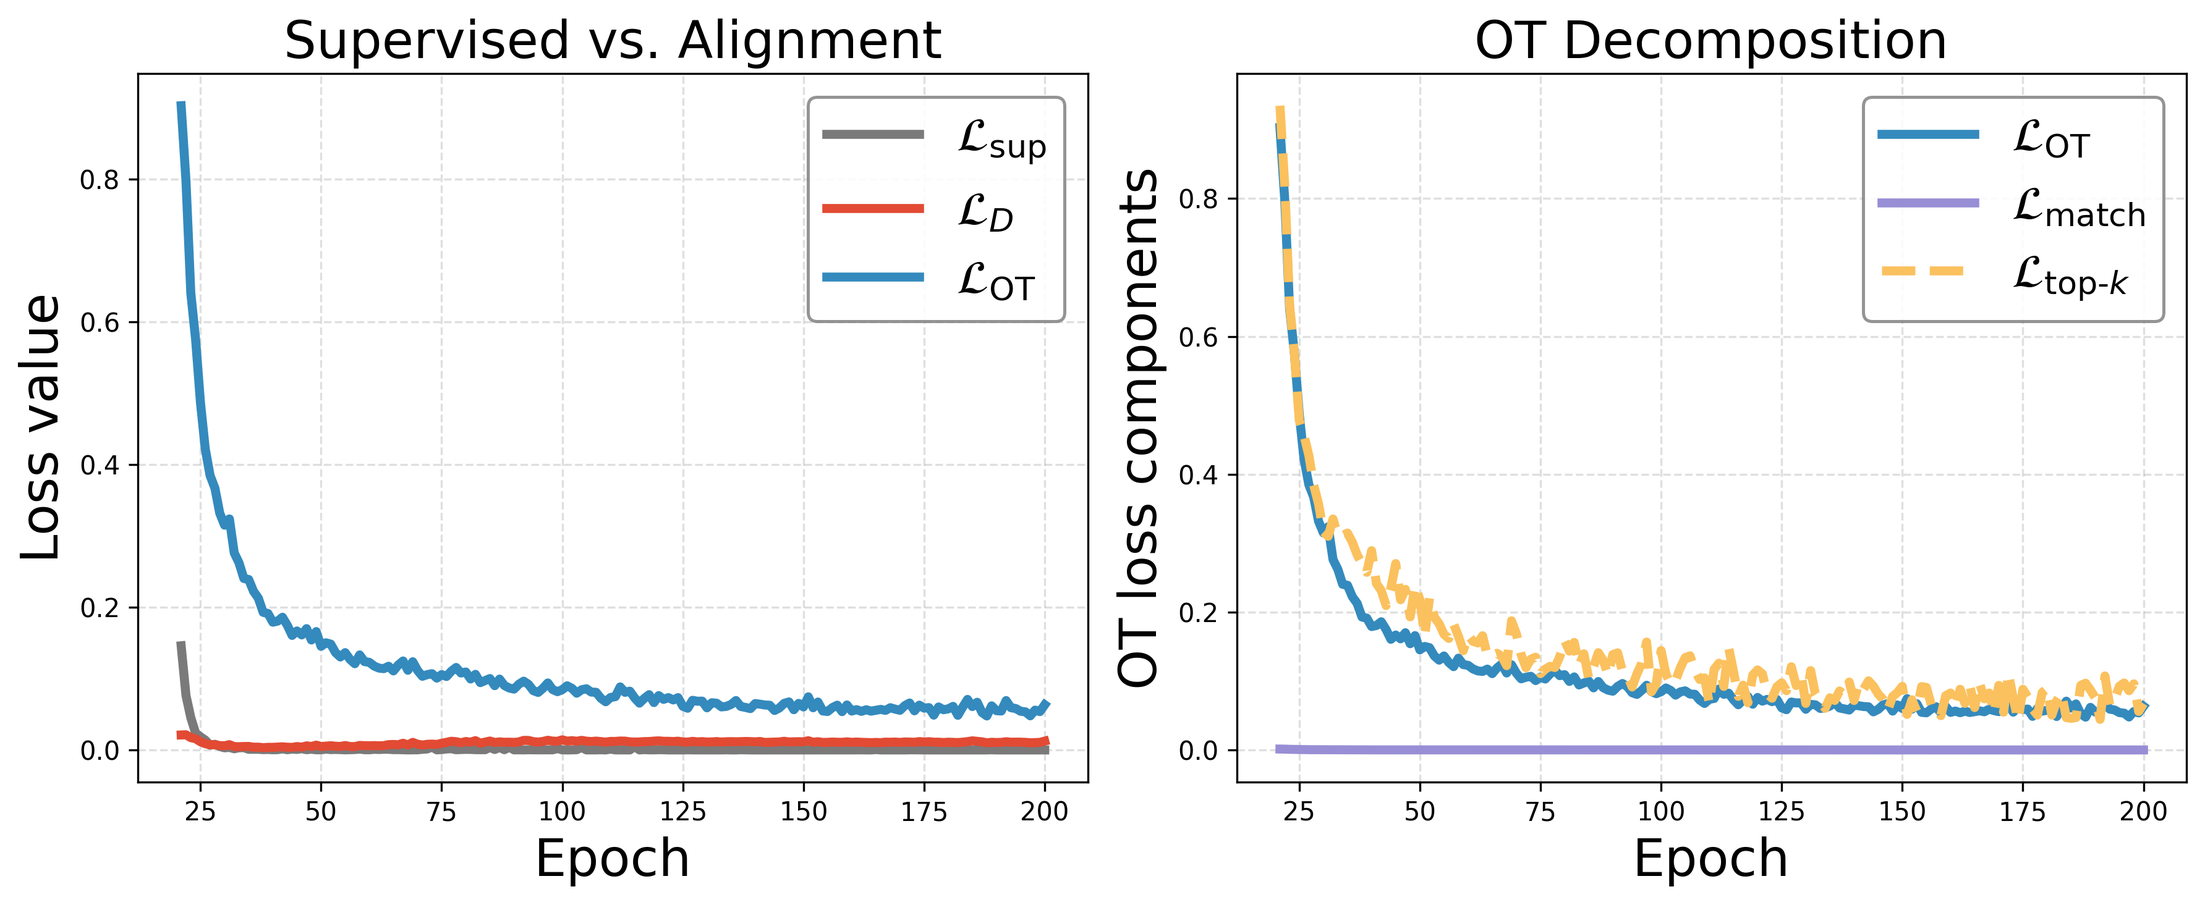
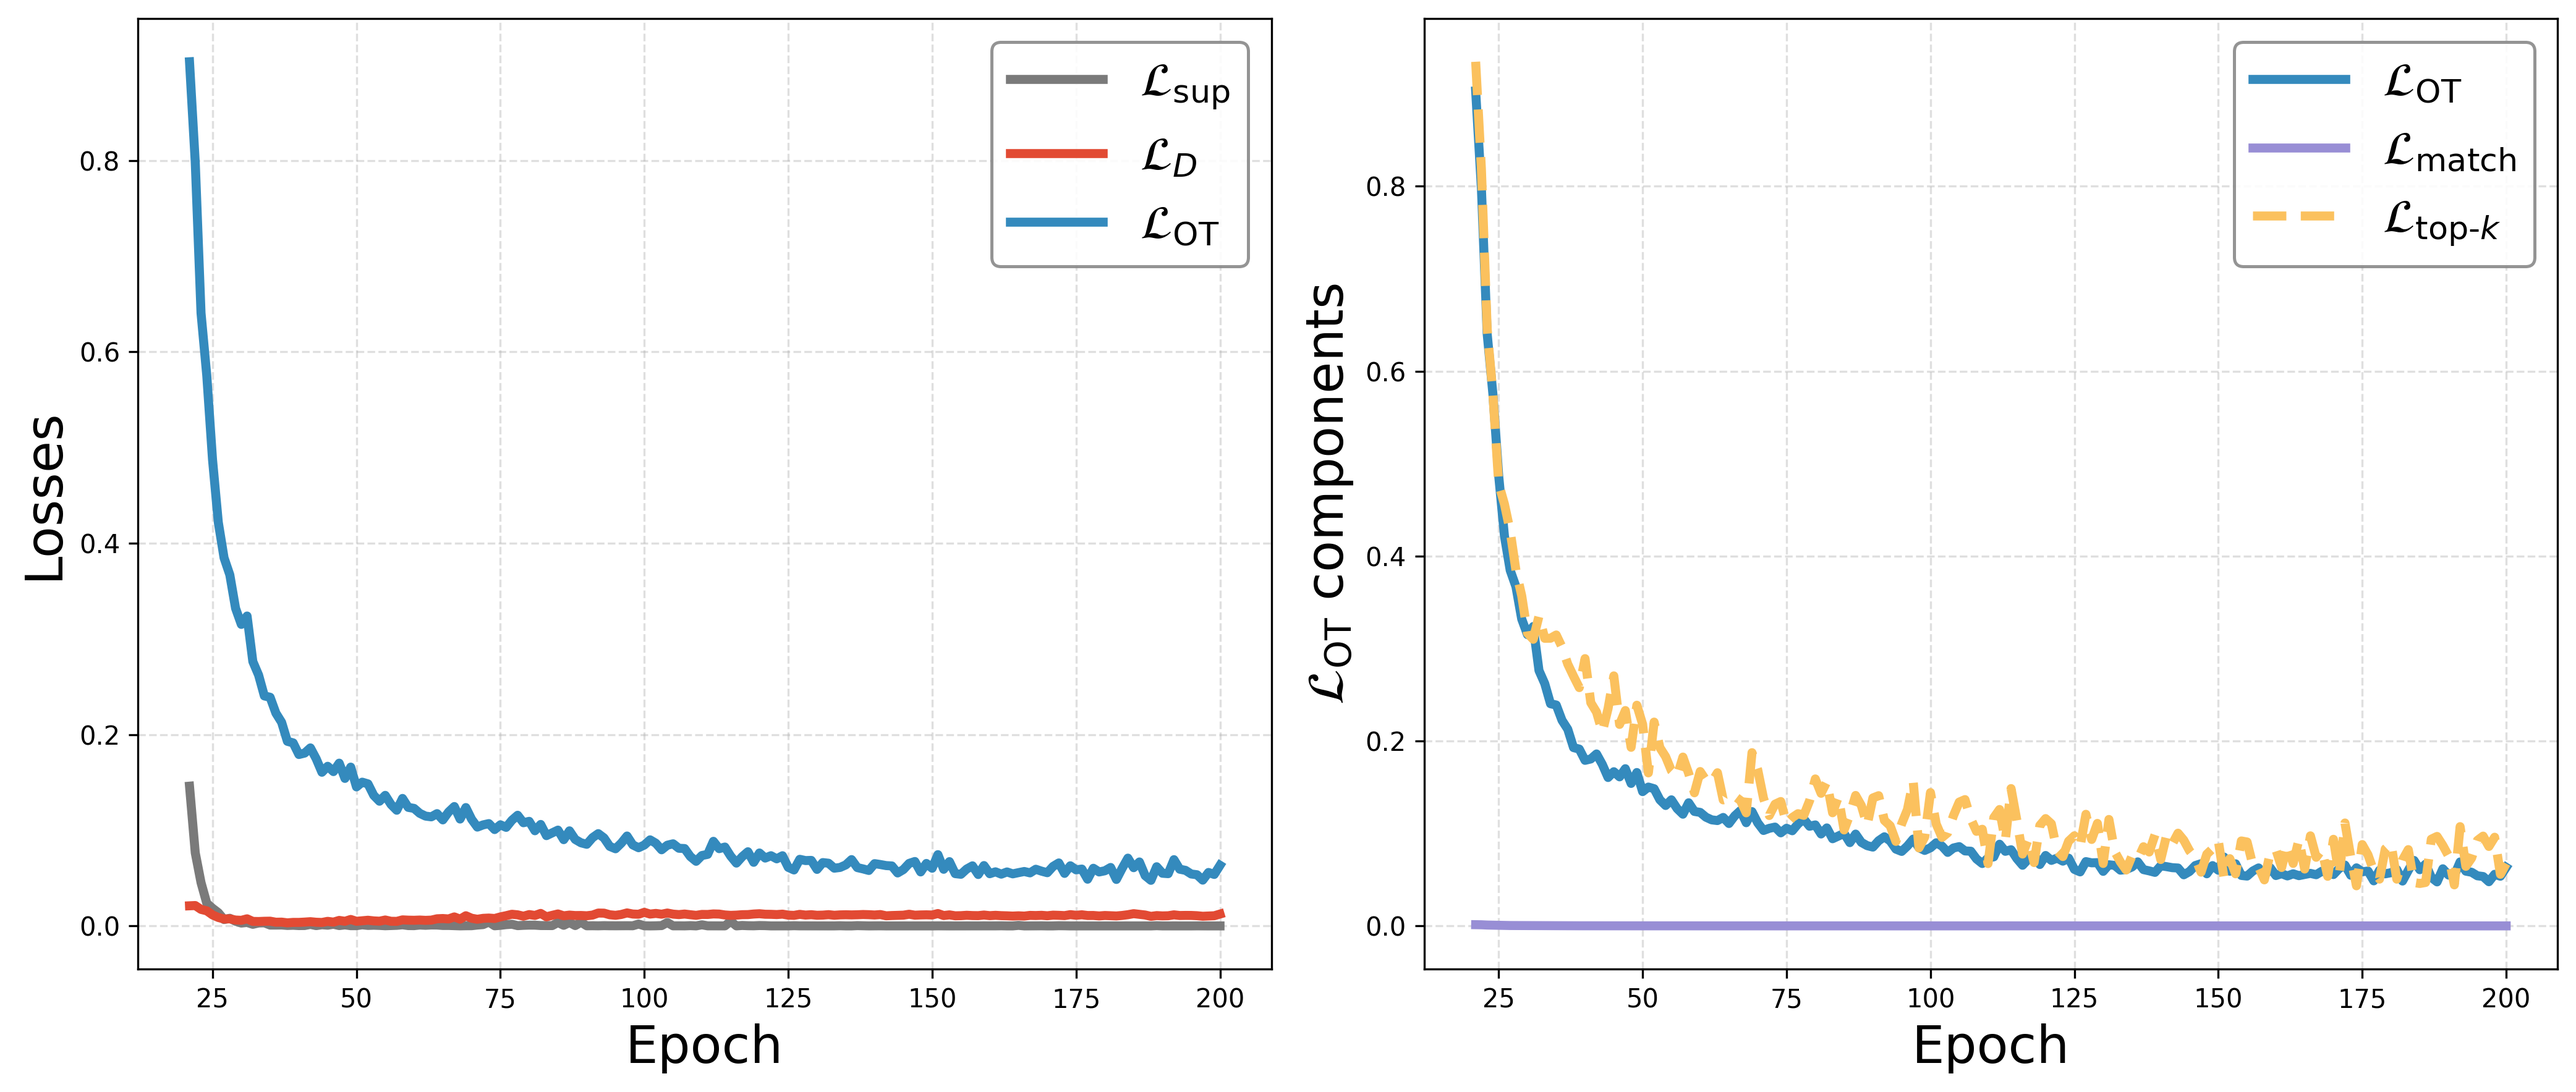
tiny update in figure size

Changed region(s): [[0.0, 0.0, 0.9958, 0.9829]]

diff --git a/scripts/make_paper_figures.py b/scripts/make_paper_figures.py
@@ -1068,7 +1068,7 @@ def _plot_figure6(experiments: dict, output_path: str):
     ot_topk = df["ot_topk_loss"].to_numpy() if "ot_topk_loss" in df.columns else None
     ot_match = df["ot_match_loss"].to_numpy() if "ot_match_loss" in df.columns else None
 
-    fig, axes = plt.subplots(1, 2, figsize=(12, 5))
+    fig, axes = plt.subplots(1, 2, figsize=(14, 6))
     ax_left, ax_right = axes
 
     if ce is not None:
@@ -1100,7 +1100,7 @@ def _plot_figure6(experiments: dict, output_path: str):
         )
 
     ax_left.set_xlabel("Epoch", fontsize=FONT_SIZE_LABEL)
-    ax_left.set_ylabel("Loss value", fontsize=FONT_SIZE_LABEL)
+    ax_left.set_ylabel("Losses", fontsize=FONT_SIZE_LABEL)
     ax_left.yaxis.label.set_fontweight("medium")
     ax_left.grid(True, linestyle="--", alpha=ALPHA_GRID)
     leg_left = ax_left.legend(
@@ -1110,7 +1110,7 @@ def _plot_figure6(experiments: dict, output_path: str):
         leg_left.get_frame().set_edgecolor(LEGEND_FRAME_EDGE)
         leg_left.get_frame().set_linewidth(LEGEND_FRAME_WIDTH)
         leg_left.get_frame().set_alpha(LEGEND_FRAME_ALPHA)
-    ax_left.set_title(f"Supervised vs. Alignment", fontsize=FONT_SIZE_TITLE)
+    # ax_left.set_title(f"Supervised vs. Alignment", fontsize=FONT_SIZE_TITLE)
 
     if ot_total is not None:
         ax_right.plot(
@@ -1141,7 +1141,7 @@ def _plot_figure6(experiments: dict, output_path: str):
         )
 
     ax_right.set_xlabel("Epoch", fontsize=FONT_SIZE_LABEL)
-    ax_right.set_ylabel("OT loss components", fontsize=FONT_SIZE_LABEL)
+    ax_right.set_ylabel(r"$\mathcal{L}_{\mathrm{OT}}$ components", fontsize=FONT_SIZE_LABEL)
     ax_right.yaxis.label.set_fontweight("medium")
     ax_right.grid(True, linestyle="--", alpha=ALPHA_GRID)
     leg_right = ax_right.legend(
@@ -1151,7 +1151,7 @@ def _plot_figure6(experiments: dict, output_path: str):
         leg_right.get_frame().set_edgecolor(LEGEND_FRAME_EDGE)
         leg_right.get_frame().set_linewidth(LEGEND_FRAME_WIDTH)
         leg_right.get_frame().set_alpha(LEGEND_FRAME_ALPHA)
-    ax_right.set_title(f"OT Decomposition", fontsize=FONT_SIZE_TITLE)
+    # ax_right.set_title(f"OT Decomposition", fontsize=FONT_SIZE_TITLE)
 
     fig.tight_layout()
     logger.info(f"Saving figure 6 (OT losses) to {fig_path}")
